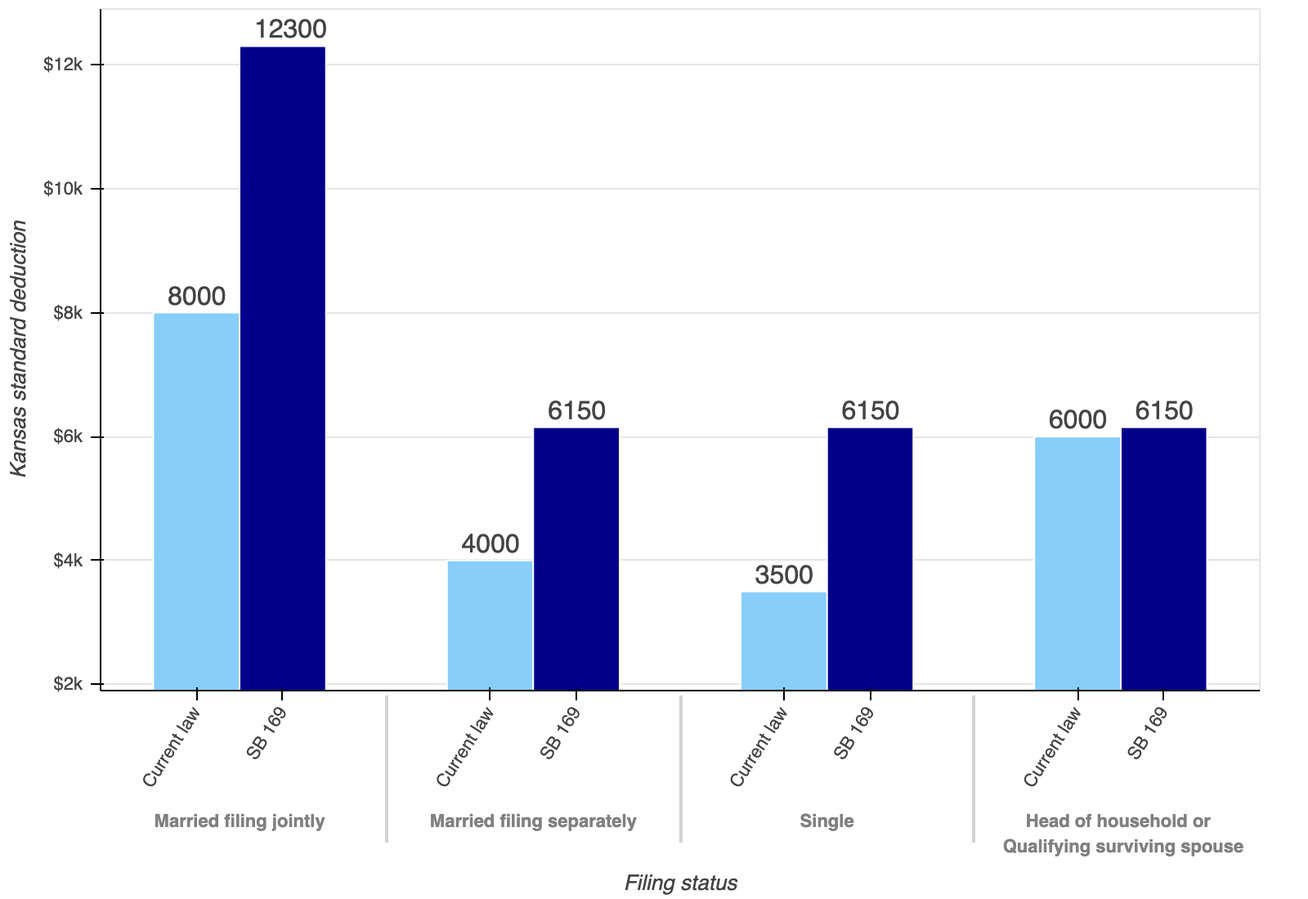
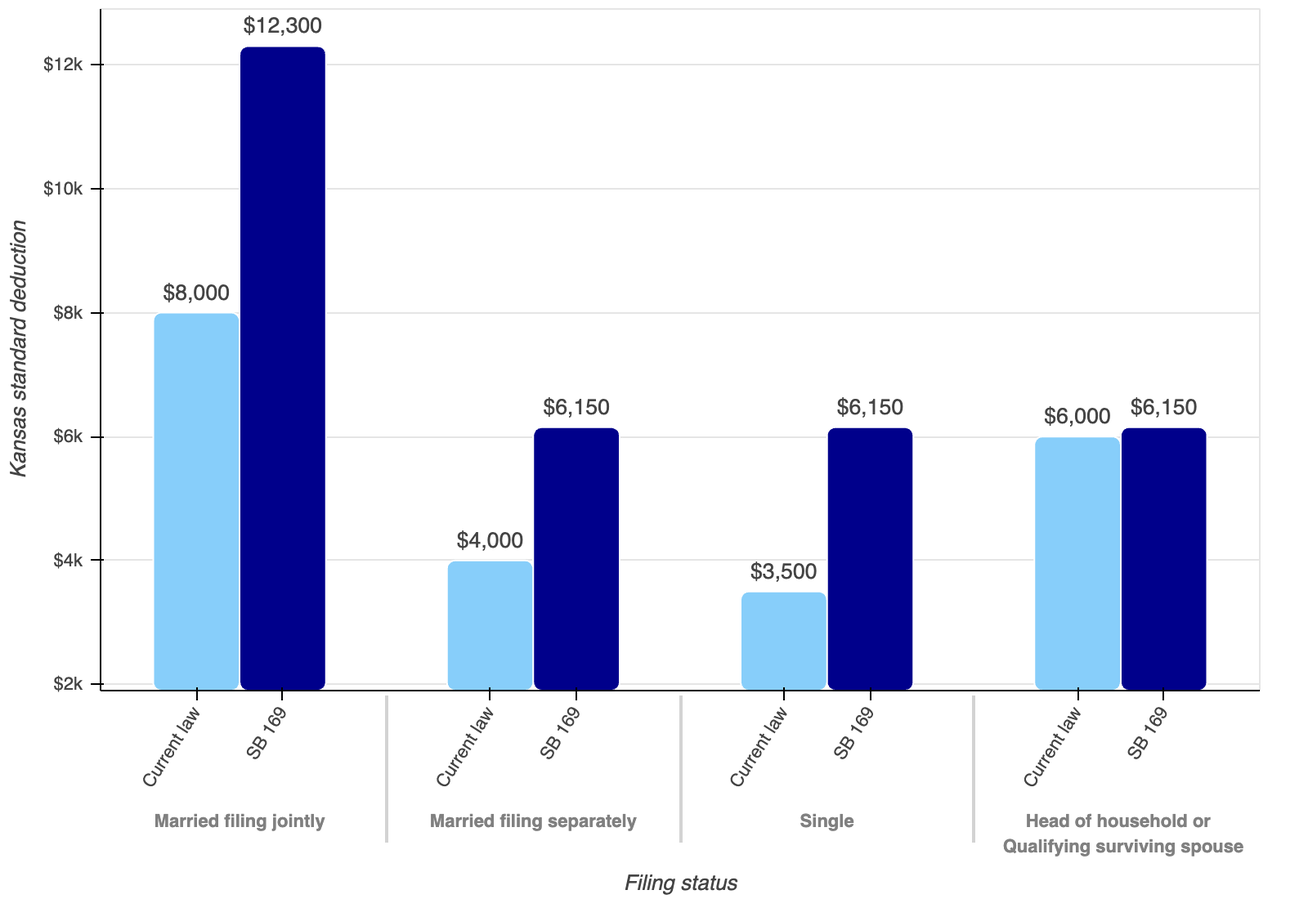
Updated figs 4 and 5 in KS_FlatTax.ipynb

diff --git a/images/CurrReformTaxRates.html b/images/CurrReformTaxRates.html
@@ -711,10 +711,10 @@ function _(e,t,n,s,o){var r;s();const i=e(442),a=e(14),l=e(56),c=e(40);class p e
     </script>
   </head>
   <body>
-    <div id="afb91ad6-c3c2-4cbd-a5e5-e656fec61b0f" data-root-id="p178846" style="display: contents;"></div>
+    <div id="e374edc8-fb08-47d8-a238-8647ab2e45b0" data-root-id="p2161" style="display: contents;"></div>
   
-    <script type="application/json" id="p181442">
-      {"3bbe8be4-3f68-45e3-af22-b3bfb78ba087":{"version":"3.1.1","title":"Bokeh Application","defs":[],"roots":[{"type":"object","name":"Figure","id":"p178846","attributes":{"width":800,"height":550,"x_range":{"type":"object","name":"FactorRange","id":"p178856","attributes":{"factors":["$0 to $30k, married \n (or $0 to $15k for \n other filer types)","$30k to $60k, married \n (or $15k to $30k for \n other filer types)","greater than $60k, married \n (or greater than $30k \n for other filer types)"]}},"y_range":{"type":"object","name":"Range1d","id":"p178858","attributes":{"start":0.018,"end":0.061}},"x_scale":{"type":"object","name":"CategoricalScale","id":"p178860"},"y_scale":{"type":"object","name":"LinearScale","id":"p178862"},"title":{"type":"object","name":"Title","id":"p178849","attributes":{"text_font_size":"11pt"}},"renderers":[{"type":"object","name":"GlyphRenderer","id":"p178889","attributes":{"data_source":{"type":"object","name":"ColumnDataSource","id":"p178883","attributes":{"selected":{"type":"object","name":"Selection","id":"p178885","attributes":{"indices":[],"line_indices":[]}},"selection_policy":{"type":"object","name":"UnionRenderers","id":"p178884"},"data":{"type":"map","entries":[["x",["$0 to $30k, married \n (or $0 to $15k for \n other filer types)","$30k to $60k, married \n (or $15k to $30k for \n other filer types)","greater than $60k, married \n (or greater than $30k \n for other filer types)"]],["top",[0.031,0.051,0.057]]]}}},"view":{"type":"object","name":"CDSView","id":"p178890","attributes":{"filter":{"type":"object","name":"AllIndices","id":"p178891"}}},"glyph":{"type":"object","name":"VBar","id":"p178886","attributes":{"x":{"type":"field","field":"x"},"width":{"type":"value","value":0.7},"top":{"type":"field","field":"top"},"line_color":{"type":"value","value":"steelblue"},"fill_color":{"type":"value","value":"steelblue"},"hatch_color":{"type":"value","value":"steelblue"}}},"nonselection_glyph":{"type":"object","name":"VBar","id":"p178887","attributes":{"x":{"type":"field","field":"x"},"width":{"type":"value","value":0.7},"top":{"type":"field","field":"top"},"line_color":{"type":"value","value":"steelblue"},"line_alpha":{"type":"value","value":0.1},"fill_color":{"type":"value","value":"steelblue"},"fill_alpha":{"type":"value","value":0.1},"hatch_color":{"type":"value","value":"steelblue"},"hatch_alpha":{"type":"value","value":0.1}}},"muted_glyph":{"type":"object","name":"VBar","id":"p178888","attributes":{"x":{"type":"field","field":"x"},"width":{"type":"value","value":0.7},"top":{"type":"field","field":"top"},"line_color":{"type":"value","value":"steelblue"},"line_alpha":{"type":"value","value":0.2},"fill_color":{"type":"value","value":"steelblue"},"fill_alpha":{"type":"value","value":0.2},"hatch_color":{"type":"value","value":"steelblue"},"hatch_alpha":{"type":"value","value":0.2}}}}},{"type":"object","name":"GlyphRenderer","id":"p178898","attributes":{"data_source":{"type":"object","name":"ColumnDataSource","id":"p178892","attributes":{"selected":{"type":"object","name":"Selection","id":"p178894","attributes":{"indices":[],"line_indices":[]}},"selection_policy":{"type":"object","name":"UnionRenderers","id":"p178893"},"data":{"type":"map","entries":[["x",[0,3]],["y",[0.0515,0.0515]]]}}},"view":{"type":"object","name":"CDSView","id":"p178899","attributes":{"filter":{"type":"object","name":"AllIndices","id":"p178900"}}},"glyph":{"type":"object","name":"Line","id":"p178895","attributes":{"x":{"type":"field","field":"x"},"y":{"type":"field","field":"y"},"line_color":"darkblue","line_alpha":0.5,"line_width":3,"line_dash":[6]}},"nonselection_glyph":{"type":"object","name":"Line","id":"p178896","attributes":{"x":{"type":"field","field":"x"},"y":{"type":"field","field":"y"},"line_color":"darkblue","line_alpha":0.1,"line_width":3,"line_dash":[6]}},"muted_glyph":{"type":"object","name":"Line","id":"p178897","attributes":{"x":{"type":"field","field":"x"},"y":{"type":"field","field":"y"},"line_color":"darkblue","line_alpha":0.2,"line_width":3,"line_dash":[6]}}}},{"type":"object","name":"GlyphRenderer","id":"p178907","attributes":{"level":"underlay","data_source":{"type":"object","name":"ColumnDataSource","id":"p178901","attributes":{"selected":{"type":"object","name":"Selection","id":"p178903","attributes":{"indices":[],"line_indices":[]}},"selection_policy":{"type":"object","name":"UnionRenderers","id":"p178902"},"data":{"type":"map"}}},"view":{"type":"object","name":"CDSView","id":"p178908","attributes":{"filter":{"type":"object","name":"AllIndices","id":"p178909"}}},"glyph":{"type":"object","name":"VBar","id":"p178904","attributes":{"x":{"type":"value","value":1.5},"width":{"type":"value","value":3.0},"top":{"type":"value","value":0.0515},"line_color":{"type":"value","value":"powderblue"},"fill_color":{"type":"value","value":"powderblue"},"hatch_color":{"type":"value","value":"powderblue"}}},"nonselection_glyph":{"type":"object","name":"VBar","id":"p178905","attributes":{"x":{"type":"value","value":1.5},"width":{"type":"value","value":3.0},"top":{"type":"value","value":0.0515},"line_color":{"type":"value","value":"powderblue"},"line_alpha":{"type":"value","value":0.1},"fill_color":{"type":"value","value":"powderblue"},"fill_alpha":{"type":"value","value":0.1},"hatch_color":{"type":"value","value":"powderblue"},"hatch_alpha":{"type":"value","value":0.1}}},"muted_glyph":{"type":"object","name":"VBar","id":"p178906","attributes":{"x":{"type":"value","value":1.5},"width":{"type":"value","value":3.0},"top":{"type":"value","value":0.0515},"line_color":{"type":"value","value":"powderblue"},"line_alpha":{"type":"value","value":0.2},"fill_color":{"type":"value","value":"powderblue"},"fill_alpha":{"type":"value","value":0.2},"hatch_color":{"type":"value","value":"powderblue"},"hatch_alpha":{"type":"value","value":0.2}}}}}],"toolbar":{"type":"object","name":"Toolbar","id":"p178851","attributes":{"logo":null,"tools":[{"type":"object","name":"SaveTool","id":"p178877"},{"type":"object","name":"HelpTool","id":"p178878"}]}},"left":[{"type":"object","name":"LinearAxis","id":"p178870","attributes":{"ticker":{"type":"object","name":"BasicTicker","id":"p178871","attributes":{"mantissas":[1,2,5]}},"formatter":{"type":"object","name":"BasicTickFormatter","id":"p178872"},"axis_label":"Statutory marginal tax rate","major_label_overrides":{"type":"map","entries":[[0.02,"2%"],[0.03,"3%"],[0.04,"4%"],[0.05,"5%"],[0.06,"6%"]]},"major_label_policy":{"type":"object","name":"AllLabels","id":"p178873"}}}],"above":[{"type":"object","name":"Legend","id":"p178914","attributes":{"location":"center","orientation":"horizontal","spacing":20,"items":[{"type":"object","name":"LegendItem","id":"p178915","attributes":{"label":{"type":"value","value":"Current law progressive tax rates"},"renderers":[{"id":"p178889"}]}},{"type":"object","name":"LegendItem","id":"p178916","attributes":{"label":{"type":"value","value":"Proposed flat tax rate"},"renderers":[{"id":"p178898"}]}}]}}],"below":[{"type":"object","name":"CategoricalAxis","id":"p178864","attributes":{"ticker":{"type":"object","name":"CategoricalTicker","id":"p178865"},"formatter":{"type":"object","name":"CategoricalTickFormatter","id":"p178866"},"axis_label":"Tax bracket income ranges","major_label_policy":{"type":"object","name":"AllLabels","id":"p178867"}}},{"type":"object","name":"Title","id":"p178917","attributes":{"text":"Note: The tax bracket income ranges under each bar are for Married filing jointly filers. All other filers have the income brackets in parentheses.","text_font_size":"3mm","text_font_style":"italic"}}],"center":[{"type":"object","name":"Grid","id":"p178869","attributes":{"axis":{"id":"p178864"},"grid_line_color":null}},{"type":"object","name":"Grid","id":"p178876","attributes":{"dimension":1,"axis":{"id":"p178870"}}},{"type":"object","name":"Label","id":"p178910","attributes":{"text":"3.10%","text_color":"white","text_font_size":"12pt","x":0.42,"y":0.028}},{"type":"object","name":"Label","id":"p178911","attributes":{"text":"5.10%","text_color":"white","text_font_size":"12pt","x":1.42,"y":0.048}},{"type":"object","name":"Label","id":"p178912","attributes":{"text":"5.70%","text_color":"white","text_font_size":"12pt","x":2.42,"y":0.054}},{"type":"object","name":"Label","id":"p178913","attributes":{"text":"5.15% flat tax rate","text_color":"darkblue","text_font_size":"12pt","x":0.55,"y":0.0517}}]}}],"callbacks":{"type":"map"}}}
+    <script type="application/json" id="p2346">
+      {"d0368ea1-41f0-4ddf-a0c1-87287541b348":{"version":"3.1.1","title":"Bokeh Application","defs":[],"roots":[{"type":"object","name":"Figure","id":"p2161","attributes":{"width":800,"height":550,"x_range":{"type":"object","name":"FactorRange","id":"p2171","attributes":{"factors":["$0 to $30k, married \n (or $0 to $15k for \n other filer types)","$30k to $60k, married \n (or $15k to $30k for \n other filer types)","greater than $60k, married \n (or greater than $30k \n for other filer types)"]}},"y_range":{"type":"object","name":"Range1d","id":"p2173","attributes":{"start":0.018,"end":0.061}},"x_scale":{"type":"object","name":"CategoricalScale","id":"p2175"},"y_scale":{"type":"object","name":"LinearScale","id":"p2177"},"title":{"type":"object","name":"Title","id":"p2164","attributes":{"text_font_size":"11pt"}},"renderers":[{"type":"object","name":"GlyphRenderer","id":"p2204","attributes":{"data_source":{"type":"object","name":"ColumnDataSource","id":"p2198","attributes":{"selected":{"type":"object","name":"Selection","id":"p2200","attributes":{"indices":[],"line_indices":[]}},"selection_policy":{"type":"object","name":"UnionRenderers","id":"p2199"},"data":{"type":"map","entries":[["x",["$0 to $30k, married \n (or $0 to $15k for \n other filer types)","$30k to $60k, married \n (or $15k to $30k for \n other filer types)","greater than $60k, married \n (or greater than $30k \n for other filer types)"]],["top",[0.031,0.051,0.057]]]}}},"view":{"type":"object","name":"CDSView","id":"p2205","attributes":{"filter":{"type":"object","name":"AllIndices","id":"p2206"}}},"glyph":{"type":"object","name":"VBar","id":"p2201","attributes":{"border_radius":8,"x":{"type":"field","field":"x"},"width":{"type":"value","value":0.7},"top":{"type":"field","field":"top"},"line_color":{"type":"value","value":"steelblue"},"fill_color":{"type":"value","value":"steelblue"},"hatch_color":{"type":"value","value":"steelblue"}}},"nonselection_glyph":{"type":"object","name":"VBar","id":"p2202","attributes":{"border_radius":8,"x":{"type":"field","field":"x"},"width":{"type":"value","value":0.7},"top":{"type":"field","field":"top"},"line_color":{"type":"value","value":"steelblue"},"line_alpha":{"type":"value","value":0.1},"fill_color":{"type":"value","value":"steelblue"},"fill_alpha":{"type":"value","value":0.1},"hatch_color":{"type":"value","value":"steelblue"},"hatch_alpha":{"type":"value","value":0.1}}},"muted_glyph":{"type":"object","name":"VBar","id":"p2203","attributes":{"border_radius":8,"x":{"type":"field","field":"x"},"width":{"type":"value","value":0.7},"top":{"type":"field","field":"top"},"line_color":{"type":"value","value":"steelblue"},"line_alpha":{"type":"value","value":0.2},"fill_color":{"type":"value","value":"steelblue"},"fill_alpha":{"type":"value","value":0.2},"hatch_color":{"type":"value","value":"steelblue"},"hatch_alpha":{"type":"value","value":0.2}}}}},{"type":"object","name":"GlyphRenderer","id":"p2213","attributes":{"data_source":{"type":"object","name":"ColumnDataSource","id":"p2207","attributes":{"selected":{"type":"object","name":"Selection","id":"p2209","attributes":{"indices":[],"line_indices":[]}},"selection_policy":{"type":"object","name":"UnionRenderers","id":"p2208"},"data":{"type":"map","entries":[["x",[0,3]],["y",[0.0515,0.0515]]]}}},"view":{"type":"object","name":"CDSView","id":"p2214","attributes":{"filter":{"type":"object","name":"AllIndices","id":"p2215"}}},"glyph":{"type":"object","name":"Line","id":"p2210","attributes":{"x":{"type":"field","field":"x"},"y":{"type":"field","field":"y"},"line_color":"darkblue","line_alpha":0.5,"line_width":3,"line_dash":[6]}},"nonselection_glyph":{"type":"object","name":"Line","id":"p2211","attributes":{"x":{"type":"field","field":"x"},"y":{"type":"field","field":"y"},"line_color":"darkblue","line_alpha":0.1,"line_width":3,"line_dash":[6]}},"muted_glyph":{"type":"object","name":"Line","id":"p2212","attributes":{"x":{"type":"field","field":"x"},"y":{"type":"field","field":"y"},"line_color":"darkblue","line_alpha":0.2,"line_width":3,"line_dash":[6]}}}},{"type":"object","name":"GlyphRenderer","id":"p2222","attributes":{"level":"underlay","data_source":{"type":"object","name":"ColumnDataSource","id":"p2216","attributes":{"selected":{"type":"object","name":"Selection","id":"p2218","attributes":{"indices":[],"line_indices":[]}},"selection_policy":{"type":"object","name":"UnionRenderers","id":"p2217"},"data":{"type":"map"}}},"view":{"type":"object","name":"CDSView","id":"p2223","attributes":{"filter":{"type":"object","name":"AllIndices","id":"p2224"}}},"glyph":{"type":"object","name":"VBar","id":"p2219","attributes":{"x":{"type":"value","value":1.5},"width":{"type":"value","value":3.0},"top":{"type":"value","value":0.0515},"line_color":{"type":"value","value":"powderblue"},"fill_color":{"type":"value","value":"powderblue"},"hatch_color":{"type":"value","value":"powderblue"}}},"nonselection_glyph":{"type":"object","name":"VBar","id":"p2220","attributes":{"x":{"type":"value","value":1.5},"width":{"type":"value","value":3.0},"top":{"type":"value","value":0.0515},"line_color":{"type":"value","value":"powderblue"},"line_alpha":{"type":"value","value":0.1},"fill_color":{"type":"value","value":"powderblue"},"fill_alpha":{"type":"value","value":0.1},"hatch_color":{"type":"value","value":"powderblue"},"hatch_alpha":{"type":"value","value":0.1}}},"muted_glyph":{"type":"object","name":"VBar","id":"p2221","attributes":{"x":{"type":"value","value":1.5},"width":{"type":"value","value":3.0},"top":{"type":"value","value":0.0515},"line_color":{"type":"value","value":"powderblue"},"line_alpha":{"type":"value","value":0.2},"fill_color":{"type":"value","value":"powderblue"},"fill_alpha":{"type":"value","value":0.2},"hatch_color":{"type":"value","value":"powderblue"},"hatch_alpha":{"type":"value","value":0.2}}}}}],"toolbar":{"type":"object","name":"Toolbar","id":"p2170","attributes":{"logo":null,"tools":[{"type":"object","name":"SaveTool","id":"p2192"},{"type":"object","name":"HelpTool","id":"p2193"}]}},"left":[{"type":"object","name":"LinearAxis","id":"p2185","attributes":{"ticker":{"type":"object","name":"BasicTicker","id":"p2188","attributes":{"mantissas":[1,2,5]}},"formatter":{"type":"object","name":"BasicTickFormatter","id":"p2187"},"axis_label":"Statutory marginal tax rate","major_label_overrides":{"type":"map","entries":[[0.02,"2%"],[0.03,"3%"],[0.04,"4%"],[0.05,"5%"],[0.06,"6%"]]},"major_label_policy":{"type":"object","name":"AllLabels","id":"p2186"}}}],"above":[{"type":"object","name":"Legend","id":"p2229","attributes":{"location":"center","orientation":"horizontal","spacing":20,"items":[{"type":"object","name":"LegendItem","id":"p2230","attributes":{"label":{"type":"value","value":"Current law progressive tax rates"},"renderers":[{"id":"p2204"}]}},{"type":"object","name":"LegendItem","id":"p2231","attributes":{"label":{"type":"value","value":"Proposed flat tax rate"},"renderers":[{"id":"p2213"}]}}]}}],"below":[{"type":"object","name":"CategoricalAxis","id":"p2179","attributes":{"ticker":{"type":"object","name":"CategoricalTicker","id":"p2182"},"formatter":{"type":"object","name":"CategoricalTickFormatter","id":"p2181"},"axis_label":"Tax bracket income ranges","major_label_policy":{"type":"object","name":"AllLabels","id":"p2180"}}},{"type":"object","name":"Title","id":"p2232","attributes":{"text":"Note: The tax bracket income ranges under each bar are for Married filing jointly filers. All other filers have the income brackets in parentheses.","text_font_size":"3mm","text_font_style":"italic"}}],"center":[{"type":"object","name":"Grid","id":"p2184","attributes":{"axis":{"id":"p2179"},"grid_line_color":null}},{"type":"object","name":"Grid","id":"p2191","attributes":{"dimension":1,"axis":{"id":"p2185"}}},{"type":"object","name":"Label","id":"p2225","attributes":{"text":"3.10%","text_color":"white","text_font_size":"12pt","x":0.42,"y":0.028}},{"type":"object","name":"Label","id":"p2226","attributes":{"text":"5.10%","text_color":"white","text_font_size":"12pt","x":1.42,"y":0.048}},{"type":"object","name":"Label","id":"p2227","attributes":{"text":"5.70%","text_color":"white","text_font_size":"12pt","x":2.42,"y":0.054}},{"type":"object","name":"Label","id":"p2228","attributes":{"text":"5.15% flat tax rate","text_color":"darkblue","text_font_size":"12pt","x":0.55,"y":0.0517}}]}}],"callbacks":{"type":"map"}}}
     </script>
     <script type="text/javascript">
       (function() {
@@ -722,8 +722,8 @@ function _(e,t,n,s,o){var r;s();const i=e(442),a=e(14),l=e(56),c=e(40);class p e
           Bokeh.safely(function() {
             (function(root) {
               function embed_document(root) {
-              const docs_json = document.getElementById('p181442').textContent;
-              const render_items = [{"docid":"3bbe8be4-3f68-45e3-af22-b3bfb78ba087","roots":{"p178846":"afb91ad6-c3c2-4cbd-a5e5-e656fec61b0f"},"root_ids":["p178846"]}];
+              const docs_json = document.getElementById('p2346').textContent;
+              const render_items = [{"docid":"d0368ea1-41f0-4ddf-a0c1-87287541b348","roots":{"p2161":"e374edc8-fb08-47d8-a238-8647ab2e45b0"},"root_ids":["p2161"]}];
               root.Bokeh.embed.embed_items(docs_json, render_items);
               }
               if (root.Bokeh !== undefined) {

diff --git a/images/CurrReformStdDeduct.html b/images/CurrReformStdDeduct.html
@@ -711,10 +711,10 @@ function _(e,t,n,s,o){var r;s();const i=e(442),a=e(14),l=e(56),c=e(40);class p e
     </script>
   </head>
   <body>
-    <div id="e7133ec7-7e95-4de4-adbd-112b61ef7e49" data-root-id="p319261" style="display: contents;"></div>
+    <div id="efa98aaf-0dfe-4854-b054-9746e02f7539" data-root-id="p4165" style="display: contents;"></div>
   
-    <script type="application/json" id="p322209">
-      {"bfa9965f-7633-4e36-96d5-0c1531bac8af":{"version":"3.1.1","title":"Bokeh Application","defs":[],"roots":[{"type":"object","name":"Figure","id":"p319261","attributes":{"width":800,"height":550,"x_range":{"type":"object","name":"FactorRange","id":"p319260","attributes":{"factors":[["Married filing jointly","Current law"],["Married filing jointly","SB 169"],["Married filing separately","Current law"],["Married filing separately","SB 169"],["Single","Current law"],["Single","SB 169"],["Head of household or \n Qualifying surviving spouse","Current law"],["Head of household or \n Qualifying surviving spouse","SB 169"]],"range_padding":0.1}},"y_range":{"type":"object","name":"Range1d","id":"p319272","attributes":{"start":1900,"end":12900}},"x_scale":{"type":"object","name":"CategoricalScale","id":"p319274"},"y_scale":{"type":"object","name":"LinearScale","id":"p319276"},"title":{"type":"object","name":"Title","id":"p319264","attributes":{"text_font_size":"11pt"}},"renderers":[{"type":"object","name":"GlyphRenderer","id":"p319304","attributes":{"data_source":{"type":"object","name":"ColumnDataSource","id":"p319257","attributes":{"selected":{"type":"object","name":"Selection","id":"p319259","attributes":{"indices":[],"line_indices":[]}},"selection_policy":{"type":"object","name":"UnionRenderers","id":"p319258"},"data":{"type":"map","entries":[["x",[["Married filing jointly","Current law"],["Married filing jointly","SB 169"],["Married filing separately","Current law"],["Married filing separately","SB 169"],["Single","Current law"],["Single","SB 169"],["Head of household or \n Qualifying surviving spouse","Current law"],["Head of household or \n Qualifying surviving spouse","SB 169"]]],["std_deducts",[8000,12300,4000,6150,3500,6150,6000,6150]]]}}},"view":{"type":"object","name":"CDSView","id":"p319305","attributes":{"filter":{"type":"object","name":"AllIndices","id":"p319306"}}},"glyph":{"type":"object","name":"VBar","id":"p319301","attributes":{"x":{"type":"field","field":"x"},"top":{"type":"field","field":"std_deducts"},"line_color":{"type":"value","value":"white"},"fill_color":{"type":"field","field":"x","transform":{"type":"object","name":"CategoricalColorMapper","id":"p319297","attributes":{"palette":["lightskyblue","darkblue"],"factors":["Current law","SB 169"],"start":1,"end":2}}}}},"nonselection_glyph":{"type":"object","name":"VBar","id":"p319302","attributes":{"x":{"type":"field","field":"x"},"top":{"type":"field","field":"std_deducts"},"line_color":{"type":"value","value":"white"},"line_alpha":{"type":"value","value":0.1},"fill_color":{"type":"field","field":"x","transform":{"id":"p319297"}},"fill_alpha":{"type":"value","value":0.1},"hatch_alpha":{"type":"value","value":0.1}}},"muted_glyph":{"type":"object","name":"VBar","id":"p319303","attributes":{"x":{"type":"field","field":"x"},"top":{"type":"field","field":"std_deducts"},"line_color":{"type":"value","value":"white"},"line_alpha":{"type":"value","value":0.2},"fill_color":{"type":"field","field":"x","transform":{"id":"p319297"}},"fill_alpha":{"type":"value","value":0.2},"hatch_alpha":{"type":"value","value":0.2}}}}}],"toolbar":{"type":"object","name":"Toolbar","id":"p319266","attributes":{"logo":null,"tools":[{"type":"object","name":"SaveTool","id":"p319291"},{"type":"object","name":"HelpTool","id":"p319292"}]}},"left":[{"type":"object","name":"LinearAxis","id":"p319284","attributes":{"ticker":{"type":"object","name":"BasicTicker","id":"p319285","attributes":{"mantissas":[1,2,5]}},"formatter":{"type":"object","name":"BasicTickFormatter","id":"p319286"},"axis_label":"Kansas standard deduction","major_label_overrides":{"type":"map","entries":[[2000,"$2k"],[4000,"$4k"],[6000,"$6k"],[8000,"$8k"],[10000,"$10k"],[12000,"$12k"]]},"major_label_policy":{"type":"object","name":"AllLabels","id":"p319287"},"minor_tick_line_color":null}}],"below":[{"type":"object","name":"CategoricalAxis","id":"p319278","attributes":{"ticker":{"type":"object","name":"CategoricalTicker","id":"p319279"},"formatter":{"type":"object","name":"CategoricalTickFormatter","id":"p319280"},"axis_label":"Filing status","major_label_orientation":1,"major_label_policy":{"type":"object","name":"AllLabels","id":"p319281"}}}],"center":[{"type":"object","name":"Grid","id":"p319283","attributes":{"axis":{"id":"p319278"},"grid_line_color":null}},{"type":"object","name":"Grid","id":"p319290","attributes":{"dimension":1,"axis":{"id":"p319284"}}},{"type":"object","name":"LabelSet","id":"p319307","attributes":{"level":"glyph","source":{"id":"p319257"},"x":{"type":"field","field":"x"},"y":{"type":"field","field":"std_deducts"},"text":{"type":"field","field":"std_deducts"},"x_offset":{"type":"value","value":-17.5},"y_offset":{"type":"value","value":5}}}]}}],"callbacks":{"type":"map"}}}
+    <script type="application/json" id="p4275">
+      {"70545407-ff40-4540-b15c-23bd09d4a99a":{"version":"3.1.1","title":"Bokeh Application","defs":[],"roots":[{"type":"object","name":"Figure","id":"p4165","attributes":{"width":800,"height":550,"x_range":{"type":"object","name":"FactorRange","id":"p4164","attributes":{"factors":[["Married filing jointly","Current law"],["Married filing jointly","SB 169"],["Married filing separately","Current law"],["Married filing separately","SB 169"],["Single","Current law"],["Single","SB 169"],["Head of household or \n Qualifying surviving spouse","Current law"],["Head of household or \n Qualifying surviving spouse","SB 169"]],"range_padding":0.1}},"y_range":{"type":"object","name":"Range1d","id":"p4176","attributes":{"start":1900,"end":12900}},"x_scale":{"type":"object","name":"CategoricalScale","id":"p4178"},"y_scale":{"type":"object","name":"LinearScale","id":"p4180"},"title":{"type":"object","name":"Title","id":"p4168","attributes":{"text_font_size":"11pt"}},"renderers":[{"type":"object","name":"GlyphRenderer","id":"p4208","attributes":{"data_source":{"type":"object","name":"ColumnDataSource","id":"p4161","attributes":{"selected":{"type":"object","name":"Selection","id":"p4163","attributes":{"indices":[],"line_indices":[]}},"selection_policy":{"type":"object","name":"UnionRenderers","id":"p4162"},"data":{"type":"map","entries":[["x",[["Married filing jointly","Current law"],["Married filing jointly","SB 169"],["Married filing separately","Current law"],["Married filing separately","SB 169"],["Single","Current law"],["Single","SB 169"],["Head of household or \n Qualifying surviving spouse","Current law"],["Head of household or \n Qualifying surviving spouse","SB 169"]]],["std_deducts",[8000,12300,4000,6150,3500,6150,6000,6150]],["std_deducts_strfmt",["$8,000","$12,300","$4,000","$6,150","$3,500","$6,150","$6,000","$6,150"]]]}}},"view":{"type":"object","name":"CDSView","id":"p4209","attributes":{"filter":{"type":"object","name":"AllIndices","id":"p4210"}}},"glyph":{"type":"object","name":"VBar","id":"p4205","attributes":{"border_radius":5,"x":{"type":"field","field":"x"},"top":{"type":"field","field":"std_deducts"},"line_color":{"type":"value","value":"white"},"fill_color":{"type":"field","field":"x","transform":{"type":"object","name":"CategoricalColorMapper","id":"p4201","attributes":{"palette":["lightskyblue","darkblue"],"factors":["Current law","SB 169"],"start":1,"end":2}}}}},"nonselection_glyph":{"type":"object","name":"VBar","id":"p4206","attributes":{"border_radius":5,"x":{"type":"field","field":"x"},"top":{"type":"field","field":"std_deducts"},"line_color":{"type":"value","value":"white"},"line_alpha":{"type":"value","value":0.1},"fill_color":{"type":"field","field":"x","transform":{"id":"p4201"}},"fill_alpha":{"type":"value","value":0.1},"hatch_alpha":{"type":"value","value":0.1}}},"muted_glyph":{"type":"object","name":"VBar","id":"p4207","attributes":{"border_radius":5,"x":{"type":"field","field":"x"},"top":{"type":"field","field":"std_deducts"},"line_color":{"type":"value","value":"white"},"line_alpha":{"type":"value","value":0.2},"fill_color":{"type":"field","field":"x","transform":{"id":"p4201"}},"fill_alpha":{"type":"value","value":0.2},"hatch_alpha":{"type":"value","value":0.2}}}}}],"toolbar":{"type":"object","name":"Toolbar","id":"p4174","attributes":{"logo":null,"tools":[{"type":"object","name":"SaveTool","id":"p4195"},{"type":"object","name":"HelpTool","id":"p4196"}]}},"left":[{"type":"object","name":"LinearAxis","id":"p4188","attributes":{"ticker":{"type":"object","name":"BasicTicker","id":"p4191","attributes":{"mantissas":[1,2,5]}},"formatter":{"type":"object","name":"BasicTickFormatter","id":"p4190"},"axis_label":"Kansas standard deduction","major_label_overrides":{"type":"map","entries":[[2000,"$2k"],[4000,"$4k"],[6000,"$6k"],[8000,"$8k"],[10000,"$10k"],[12000,"$12k"]]},"major_label_policy":{"type":"object","name":"AllLabels","id":"p4189"},"minor_tick_line_color":null}}],"below":[{"type":"object","name":"CategoricalAxis","id":"p4182","attributes":{"ticker":{"type":"object","name":"CategoricalTicker","id":"p4185"},"formatter":{"type":"object","name":"CategoricalTickFormatter","id":"p4184"},"axis_label":"Filing status","major_label_orientation":1,"major_label_policy":{"type":"object","name":"AllLabels","id":"p4183"}}}],"center":[{"type":"object","name":"Grid","id":"p4187","attributes":{"axis":{"id":"p4182"},"grid_line_color":null}},{"type":"object","name":"Grid","id":"p4194","attributes":{"dimension":1,"axis":{"id":"p4188"}}},{"type":"object","name":"LabelSet","id":"p4211","attributes":{"level":"glyph","source":{"id":"p4161"},"x":{"type":"field","field":"x"},"y":{"type":"field","field":"std_deducts"},"text":{"type":"field","field":"std_deducts_strfmt"},"y_offset":{"type":"value","value":5},"text_font_size":{"type":"value","value":"10pt"},"text_align":{"type":"value","value":"center"}}}]}}],"callbacks":{"type":"map"}}}
     </script>
     <script type="text/javascript">
       (function() {
@@ -722,8 +722,8 @@ function _(e,t,n,s,o){var r;s();const i=e(442),a=e(14),l=e(56),c=e(40);class p e
           Bokeh.safely(function() {
             (function(root) {
               function embed_document(root) {
-              const docs_json = document.getElementById('p322209').textContent;
-              const render_items = [{"docid":"bfa9965f-7633-4e36-96d5-0c1531bac8af","roots":{"p319261":"e7133ec7-7e95-4de4-adbd-112b61ef7e49"},"root_ids":["p319261"]}];
+              const docs_json = document.getElementById('p4275').textContent;
+              const render_items = [{"docid":"70545407-ff40-4540-b15c-23bd09d4a99a","roots":{"p4165":"efa98aaf-0dfe-4854-b054-9746e02f7539"},"root_ids":["p4165"]}];
               root.Bokeh.embed.embed_items(docs_json, render_items);
               }
               if (root.Bokeh !== undefined) {
